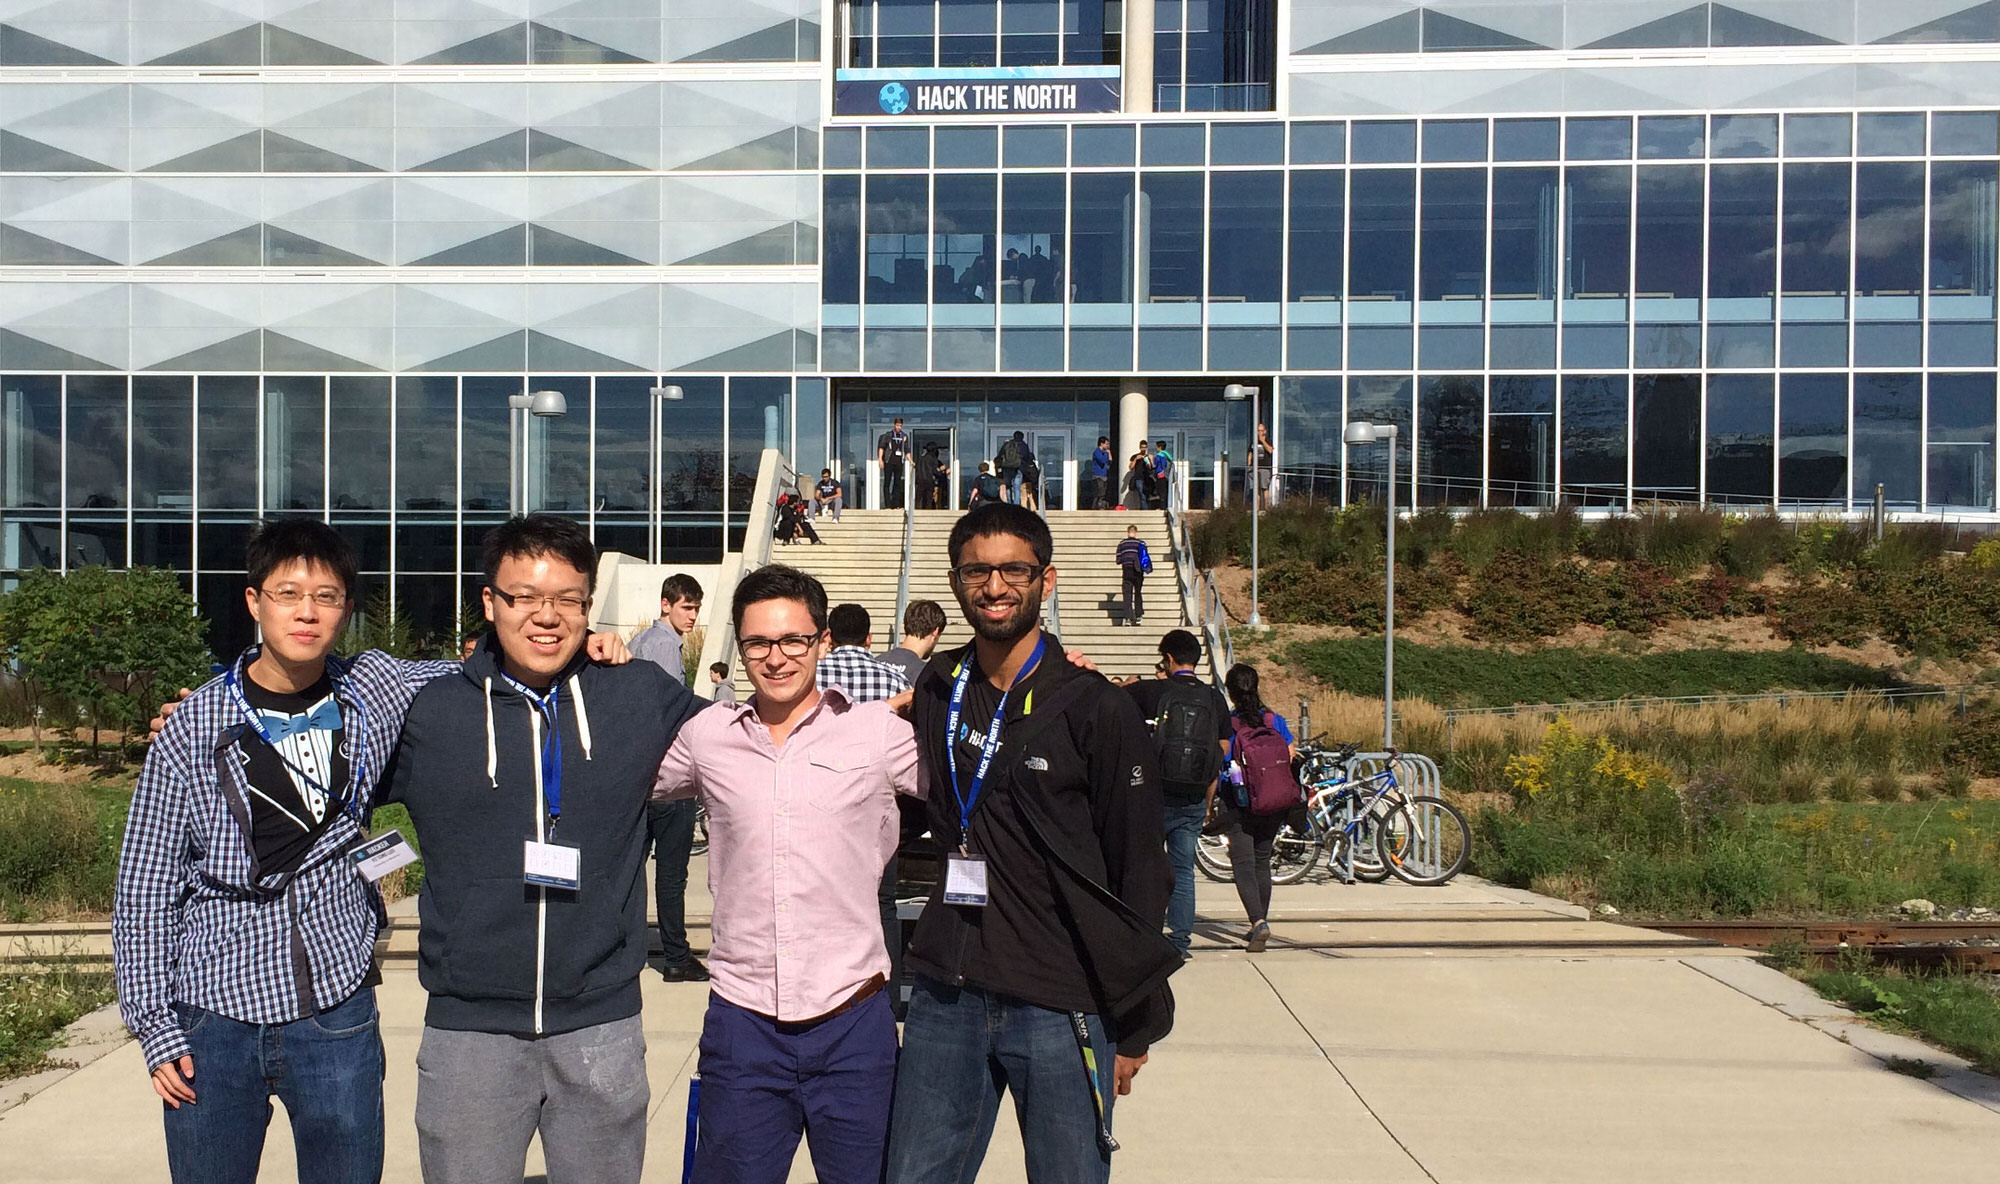
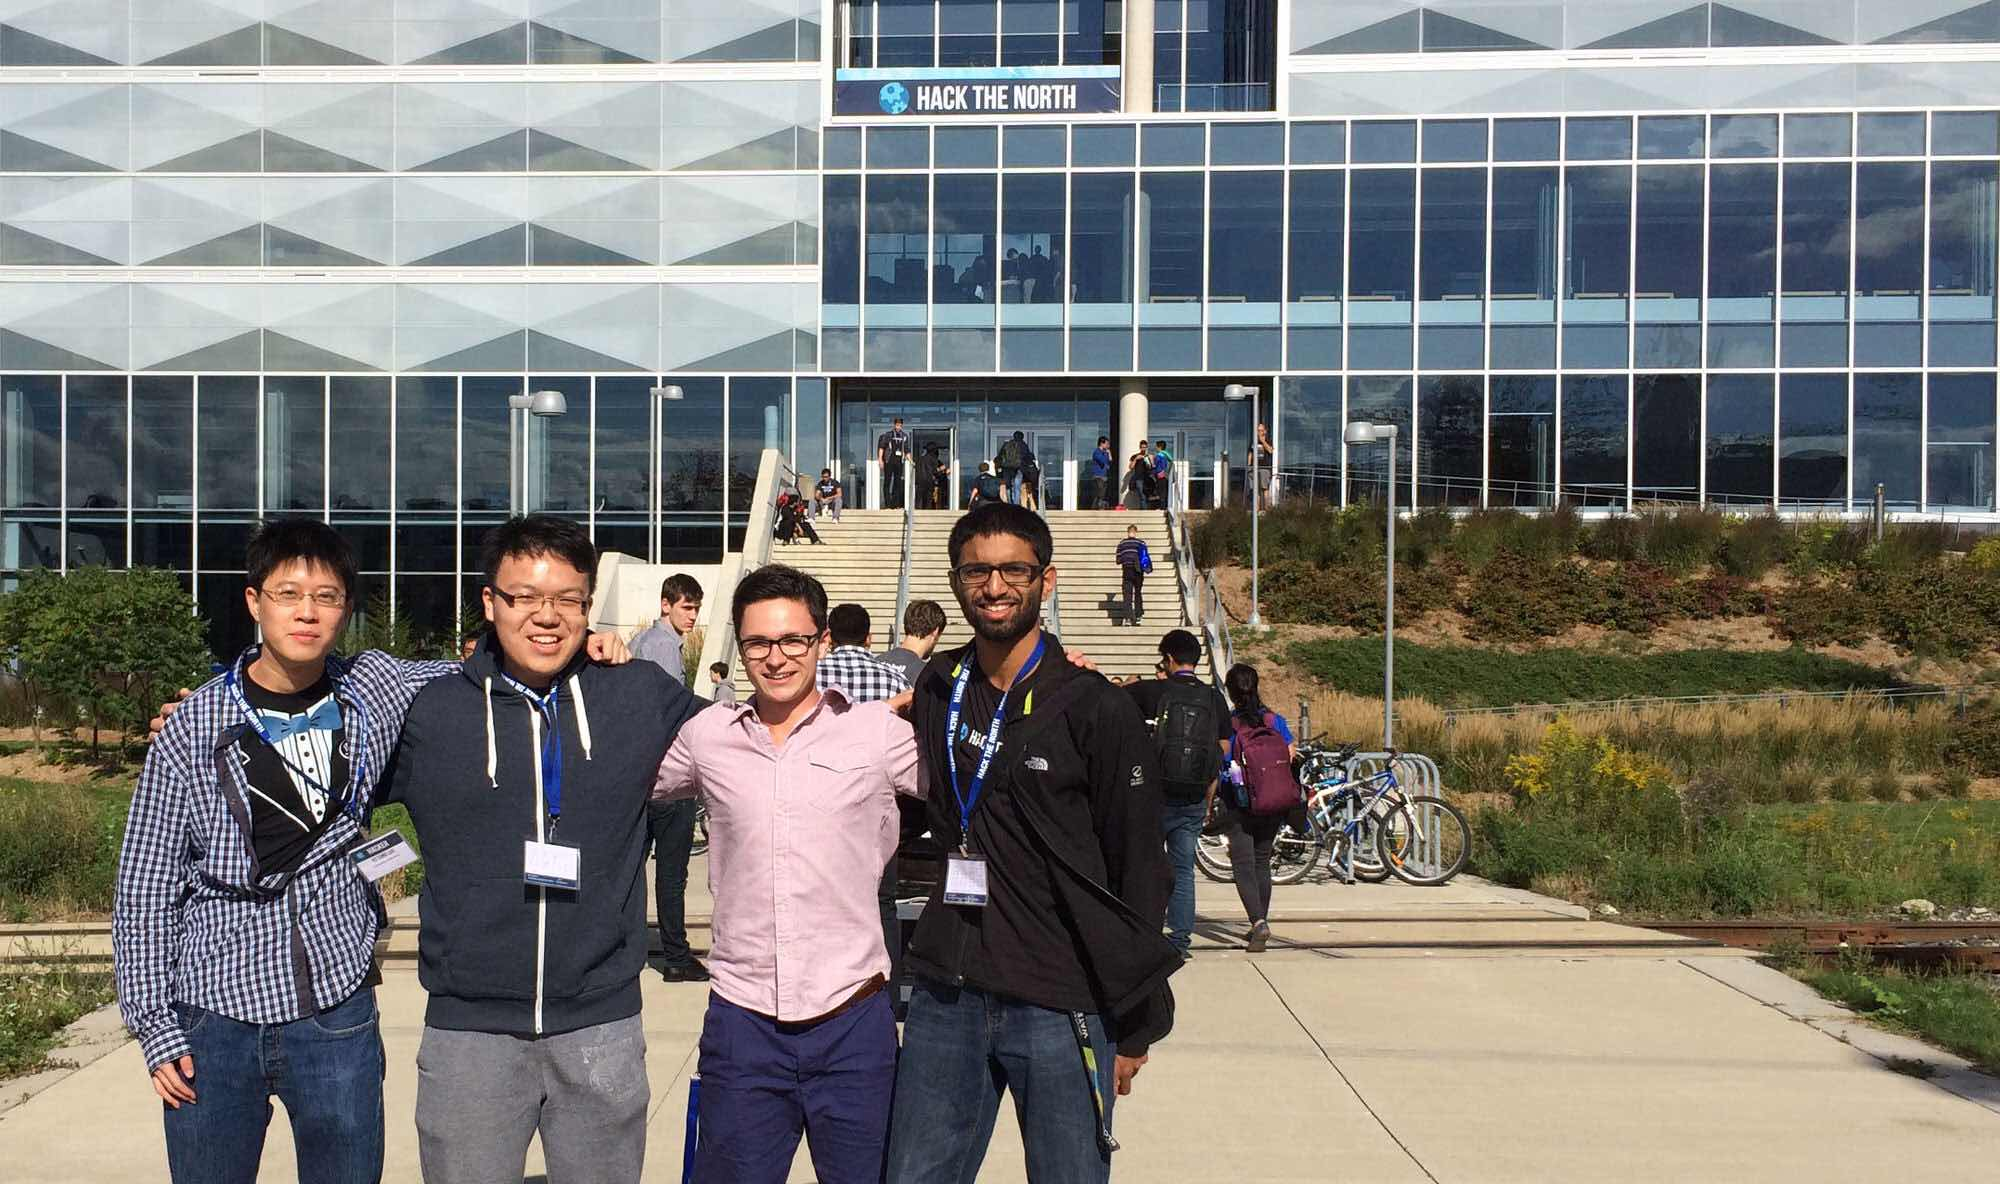
img optimization

diff --git a/_posts/2014-09-23-3-ways-hack-the-north-improved-our-startup.md b/_posts/2014-09-23-3-ways-hack-the-north-improved-our-startup.md
@@ -69,4 +69,4 @@ We had no idea when we arrived at Hack the North that the weekend would improve 
 
 This article is the first in our Hack the North series. Continue your reading with Part 2: <a href="http://andrewparadi.com/blog/launchpad-meets-hack-north-3-hypotheses-tested-hacking/">Launchpad Meets Hack the North: 3 Hypotheses We Tested While Hacking</a>.
 
->![###Update May 2015: We've been featured on Hack the North's Press <a href="http://hackthenorth.com/press" target=_blank">page</a>!](/assets/article_images/2014-09-23-3-ways-hack-the-north-improved-our-startup/HTN-press.png)
+>![###Update May 2015: We've been featured on Hack the North's Press <a href="http://hackthenorth.com/press" target=_blank">page</a>!](/assets/article_images/2014-09-23-3-ways-hack-the-north-improved-our-startup/HTN-press-c.jpg)
